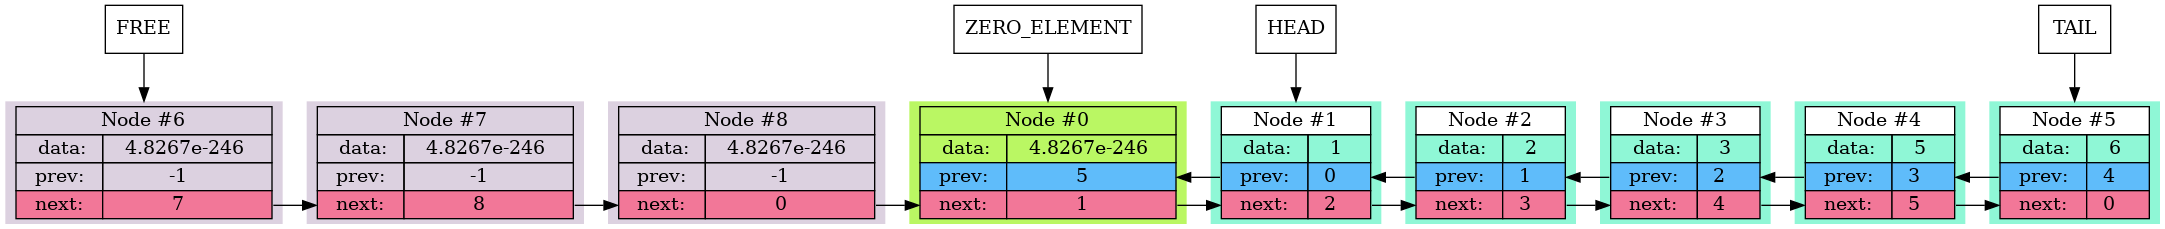
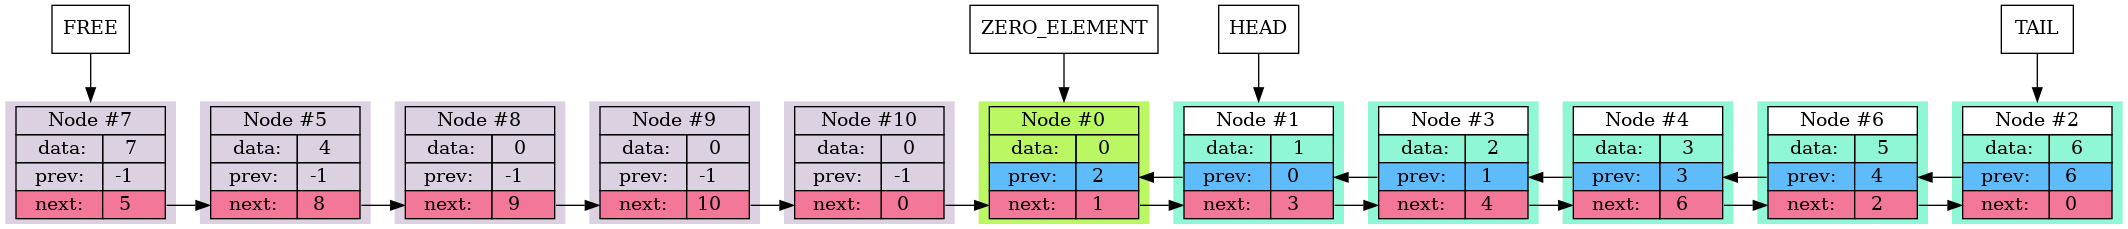
Fixes 1.1

diff --git a/LIST/list.cpp b/LIST/list.cpp
@@ -42,96 +42,7 @@ static const StructError ArrStructErr[] =
 #define FREE_COLOR "dcd1e0"
 #define DATA_COLOR "8ff7d6"
 #define ZERO_COLOR "baf763"
-/*
-    fprintf (file,  "digraph { subgraph { rank=same \n");
 
-    for (int i = 1; i < list->size; i++)
-    {
-        fprintf (file,
-            R"(
-                node_%02d
-                [
-                    style="filled",
-                    fillcolor="#%X"
-                    shape=plaintext,
-                    label=
-                    <
-                        <table border="0" cellborder="1" cellspacing="0">
-                            <tr>
-                                <td colspan="2">Node #%d</td>
-                            </tr>
-                            <tr>
-            )", i, (unsigned) list->list[i].status, i);
-
-        DataPrinter (file, &(list->list[i].data));
-
-        fprintf(file,
-            R"(
-                            </tr>
-                            <tr>
-                                <td port="prev_out" > prev: </td>
-                                <td port="prev_in" > %d    </td>
-                            </tr>
-                            <tr>
-                                <td port="next_in" > next: </td>
-                                <td port="next_out"> %d    </td>
-                            </tr>
-                        </table>
-                    >
-                ];
-            )", list->list[i].prev, list->list[i].next);
-    }
-
-    for (int i = 1; i < list->size; i++)
-    {
-        if (list->list[i].next > 0)
-        {
-            fprintf (file,  "\nnode_%02d:<next_out> -> node_%02d:<next_in>;\n",
-                    i, list->list[i].next);
-        }
-
-        if (list->list[i].prev > 0)
-        {
-            fprintf (file,  "\n node_%02d:<prev_out> -> node_%02d:<prev_in>;\n",
-                    i, list->list[i].prev);
-        }
-    }
-    fprintf (file, "}\n");
-
-    if (list->list[0].next == 0 || list->list[0].prev == 0)
-    {
-        fprintf (file, "node_00 [shape=rectangle, label=\"Terminating node\n(Node #0)\", style=\"filled\", fillcolor=grey];\n");
-    }
-
-    if (list->empty_start <= 0)
-    {
-        fprintf (file, "node_empty_start [shape=rectangle, label=\"Terminating free elements node\n(Node #-1)\", style=\"filled\", fillcolor=grey];\n"
-        "empty_start [shape=rectangle]; empty_start  -> node_empty_start;\n");
-    }
-
-    else
-    {
-        fprintf (file, "empty_start [shape=rectangle]; empty_start -> node_%02d;\n", list->empty_start);
-    }
-
-    fprintf (file,  "head [shape=rectangle]; head -> node_%02d;\n"
-                    "tail [shape=rectangle]; tail -> node_%02d;\n}",
-           list->list[0].next, list->list[0].prev);
-
-    fclose (file);
-
-    void DataPrinter (FILE* file, ll_type* data_to_print)
-{
-    fprintf (file,
-            R"(
-                <td>mat:    %d</td>
-                <td>kanava: %d</td>
-            )",
-            data_to_print->mat, data_to_print->kanava);
-    return;
-}
-
-*/
 void dump_errors (void)
 {
     printf ("==ERROR DUMP==\n");
@@ -197,27 +108,35 @@ void dump_list (SList* List)
     printf (KYLW "free %d\n" KNRM, List->free);
 
 
-    printf (Kbright KWHT "[%02d] %12lg |%2d|%2d|\n" KNRM, 0,
-            List->ArrData[ZERO_ELEMENT].data, List->ArrData[ZERO_ELEMENT].prev, List->ArrData[ZERO_ELEMENT].next);
+    printf (Kbright KWHT "[%02d]", ZERO_ELEMENT);
+
+    print_node (List->ArrData[ZERO_ELEMENT].data);
+
+    printf ("|%2d|%2d|\n" KNRM, List->ArrData[ZERO_ELEMENT].prev, List->ArrData[ZERO_ELEMENT].next);
 
     printf (KRED Kunderscore "In memory:\n" KNRM KRED);
+
     for (int counter = 1; counter <= List->capacity; ++counter)
     {
-        printf ("[%02d] %12lg |%2d|%2d|\n", counter,
-        List->ArrData[counter].data, List->ArrData[counter].prev, List->ArrData[counter].next);
+        printf (KRED "[%02d]", counter);
+
+        print_node (List->ArrData[counter].data);
+
+        printf ("|%2d|%2d|\n" , List->ArrData[counter].prev, List->ArrData[counter].next);
     }
 
     int address = List->ArrData[0].next;
 
     printf (KBLU Kunderscore "In logic way:\n" KNRM KBLU);
+
     for (int counter = 1; counter <= List->size; ++counter)
     {
-        printf ("[%02d] %12lg |%2d|%2d|\n", address,
-        List->ArrData[address].data, List->ArrData[address].prev, List->ArrData[address].next);
+        printf (KBLU "[%02d]", counter);
 
-        address = List->ArrData[address].next;
+        print_node (List->ArrData[counter].data);
+
+        printf ("|%2d|%2d|\n" , List->ArrData[counter].prev, List->ArrData[counter].next);
     }
-
 
     printf (KNRM);
 
@@ -250,16 +169,16 @@ int list_constructor (SList* List, int Size)
 
     List->ArrData = (SElem*) calloc (Size + 1, sizeof (*List->ArrData));
 
-    TElem poison = 0;
-    if (sizeof (TElem) == sizeof (double))
-    {
-        do_dead_ded (&poison);
-    }
+    //TElem poison = 0;
+    // if (sizeof (TElem) == sizeof (double))
+    // {
+    //     do_dead_ded (&poison);
+    // }
 
-    for (int counter = 0; counter <= Size; ++counter)
-    {
-        List->ArrData[counter].data = poison;
-    }
+    // for (int counter = 0; counter <= Size; ++counter)
+    // {
+    //     List->ArrData[counter].data = poison;
+    // }
 
     List->ArrData[ZERO_ELEMENT].next = 0;
     List->ArrData[ZERO_ELEMENT].prev = 0;
@@ -328,13 +247,13 @@ int pop_from_list (SList* List, int address)
     List->ArrData[address].prev = InvalidNumber;
     List->ArrData[address].next = List->free;
 
-    TElem poison = 0;
-
-    if (sizeof (TElem) == sizeof (double))
-    {
-        do_dead_ded (&poison);
-    }
-    List->ArrData[address].data = poison;
+//     TElem poison = 0;
+//
+//     if (sizeof (TElem) == sizeof (double))
+//     {
+//         do_dead_ded (&poison);
+//     }
+//     List->ArrData[address].data = poison;
 
 
     List->free = address;
@@ -421,17 +340,17 @@ int make_list_bigger (SList* List)
 
     List->free = List->size + 1;
 
-    TElem poison = 0;
-    if (sizeof (TElem) == sizeof (double))
-    {
-        do_dead_ded (&poison);
-    }
+    // TElem poison = 0;
+    // if (sizeof (TElem) == sizeof (double))
+    // {
+    //     do_dead_ded (&poison);
+    // }
 
     for (int counter = 1; counter <= List->capacity - List->size; ++counter)
     {
         List->ArrData[address].next = address + 1;
         List->ArrData[address].prev = InvalidNumber;
-        List->ArrData[address].data = poison;
+        //List->ArrData[address].data = poison;
 
         ++address;
     }
@@ -509,10 +428,6 @@ void make_gv_list (SList* List)
     FILE* gvInputFile = fopen ("gvList.dot", "w");
     MCE (gvInputFile != NULL, GVCannotOpenDotFile);
 
-    int address = ZERO_ELEMENT;
-    char* BufStr = NULL;
-
-
     fprintf (gvInputFile,   "digraph { subgraph { rank=same \n"
                             //"subgraph {\n"
                             //"\t""graph [dpi = 1000];\n"
@@ -588,7 +503,7 @@ void make_gv_list (SList* List)
                                     <tr>)", counter);
         }
 
-        print_node (List->ArrData[counter].data, gvInputFile);
+        print_gv_node (List->ArrData[counter].data, gvInputFile);
 
         if (List->ArrData[counter].prev != InvalidNumber)
         {
@@ -731,19 +646,12 @@ void make_gv_list (SList* List)
     return;
 }
 
-void print_node (TElem data, FILE* gvInputFile)
+void print_gv_node (TElem data, FILE* gvInputFile)
 {
         fprintf (gvInputFile,R"(
                 <td>   data:  </td>
-                <td>   %lg    </td>
+                <td>   %d    </td>
             )", data);
-}
-
-char* gv_make_data (SList* List, int address)
-{
-    char* ReturnValue = (char*) calloc (StdDataSize + sizeof (TElem) + 3 * sizeof(int), sizeof (*ReturnValue)); //!
-    sprintf (ReturnValue, "{{<ad> Node#%d |" Elem_print "| {<pr> prev: %d  | <nx> next: %d} } }", address, List->ArrData[address].data, List->ArrData[address].prev, List->ArrData[address].next);
-    return ReturnValue;
 }
 
 void draw_gv_list (void)
@@ -753,9 +661,14 @@ void draw_gv_list (void)
     system ("xdg-open gvList.png");
 }
 
-//TODO ?? maybe tmp folder mktmp
+void print_node (TElem data)
+{
+    printf ("%12d", data);
+}
 
-//TODO variable filename
+//TDO ?? maybe tmp folder mktmp
+
+//TDO variable filename
 
 
 // <table>

diff --git a/LIST/list.h b/LIST/list.h
@@ -1,10 +1,17 @@
 
 #include "MYassert.h"
+// TODO print differnet types
 
-#define Elem_print "%lg"
 const int coef = 2;
 
-typedef double TElem;
+typedef struct
+{
+    int    date;
+    int    time;
+    char   name;
+} SStruct;
+
+typedef int TElem;
 
 typedef struct
 {
@@ -54,4 +61,6 @@ char* gv_make_data (SList* List, int address);
 
 void draw_gv_list (void);
 
-void print_node (TElem data, FILE* gvInputFile);
+void print_gv_node (TElem data, FILE* gvInputFile);
+
+void print_node (TElem data);

diff --git a/LIST/main_list.cpp b/LIST/main_list.cpp
@@ -10,7 +10,7 @@ int main ()
 {
     SList List = {};
 
-    int size = 2;
+    int size = 10;
 
     list_constructor (&List, size);
 
@@ -18,6 +18,7 @@ int main ()
     int buf = 0;
     int tail = 0;
 
+    //dump_list (&List);
 
     insert_after  (&List, 1, 0, &buf);
 
@@ -37,9 +38,9 @@ int main ()
 
     pop_from_list (&List, buf);
 
-    dump_list (&List);
+    //dump_list (&List);
 
-    sort_list (&List);
+    //sort_list (&List);
 
     dump_list (&List);
 
